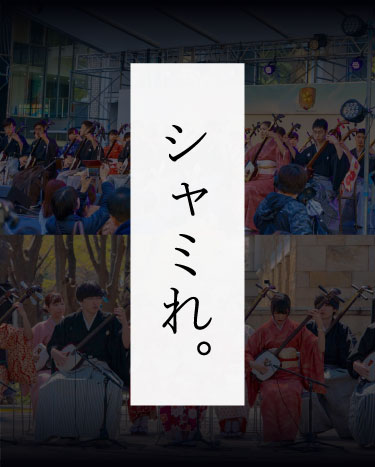
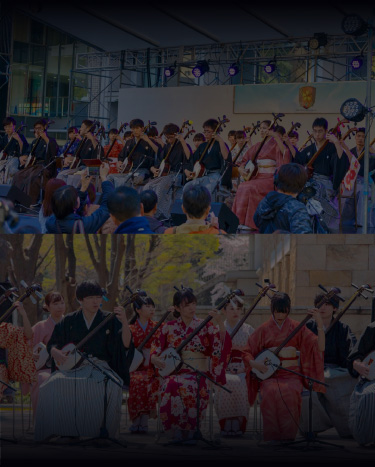
navSetting

diff --git a/mobile.css b/mobile.css
@@ -1,7 +1,7 @@
 * {
     padding: 0;
     margin: 0;
-    font-size: 62.5%;
+    font-size: 1px;
     color: #e8effb;
 }
 
@@ -15,11 +15,6 @@ body {
 /*ファーストビュー設定*/
 header {
     text-align: center;
-    background-image: url(imageForMobile/hero.jpg);
-    -webkit-background-size: cover;
-    background-size: cover;
-    background-repeat: no-repeat;
-
 }
 
 .heroForStyle {
@@ -28,16 +23,45 @@ header {
 
 .heroForMobile {
     width: 100%;
+    position: relative;
+}
+
+/*header h1 {
+    font-size: 56rem;
+    font-weight: 300;
+    position: absolute;
+    top: 0;
+    right: 0;
+    left: 0;
+    margin: 0 auto;
+    -webkit-writing-mode: vertical-rl;
+    -ms-writing-mode: tb-rl;
+    writing-mode: vertical-rl;
+    color: #020208;
+    background-color: rgba(255, 255, 255, 0.9);
+    border: 1px solid rgba(255, 255, 255, 0);
+    text-align: center;
+}*/
+
+header p {
+    display: none;
 }
 
 .catchPhrase {
-    font-size: 2rem;
-    font-weight: 400;
     text-align: center;
     padding: 160px 0;
     background-image: url(imageForMobile/string.png);
     -webkit-background-size: contain;
     background-size: contain;
     background-repeat: no-repeat;
-    background-position: center
+    background-position: center;
+}
+
+.catchPhrase p {
+    font-size: 20rem;
+    font-weight: 400;
+}
+
+nav {
+    display: none;
 }

diff --git a/index.html b/index.html
@@ -12,10 +12,16 @@
 
 <body>
     <header>
-        <img class="heroForStyle" src="imageForStyle/hero.jpg" alt="シャミれ。">
-        <img class="heroForMobile" src="imageForMobile/hero.jpg" alt="シャミれ。">
+        <img class="heroForStyle" src="imageForStyle/hero.jpg" width="100%" alt="">
+        <img class="heroForMobile" src="imageForMobile/pro-hero.jpg" width="100%" alt="">
+        <!--<h1>シャミれ。</h1>-->
+        <p>
+            今しかできない新しいこと、<br>
+            慶應でしかできないこと、<br>
+            始めませんか？
+        </p>
     </header>
-    
+
     <section class="catchPhrase">
         <p>
             今しかできない新しいこと、<br>
@@ -23,4 +29,15 @@
             始めませんか？
         </p>
     </section>
+
+    <nav>
+        <ul>
+            <li>弦音巴とは？</li>
+            <li>説明会・ライブ</li>
+            <li>練習見学</li>
+            <li>新歓食事会</li>
+            <li>活動風景</li>
+            <li>コンタクト</li>
+        </ul>
+    </nav>
 </body></html>

diff --git a/style.css b/style.css
@@ -15,12 +15,33 @@ body {
 /*ファーストビュー設定*/
 .heroForStyle {
     width: 100%;
+    position: relative;
 }
 
-heroForMobile {
+.heroForMobile {
     display: none;
+}
+
+header h1 {
+    display: none;
+}
+
+header p {
+    font-size: 32rem;
+    font-weight: 400;
+    text-align: center;
+    position: absolute;
+    top: 72%;
+    right: 0;
+    left: 0;
+    margin: 0 auto;
 }
 
 .catchPhrase {
     display: none;
+}
+
+/*navバーの作成*/
+ul {
+    list-style-type: none;
 }
